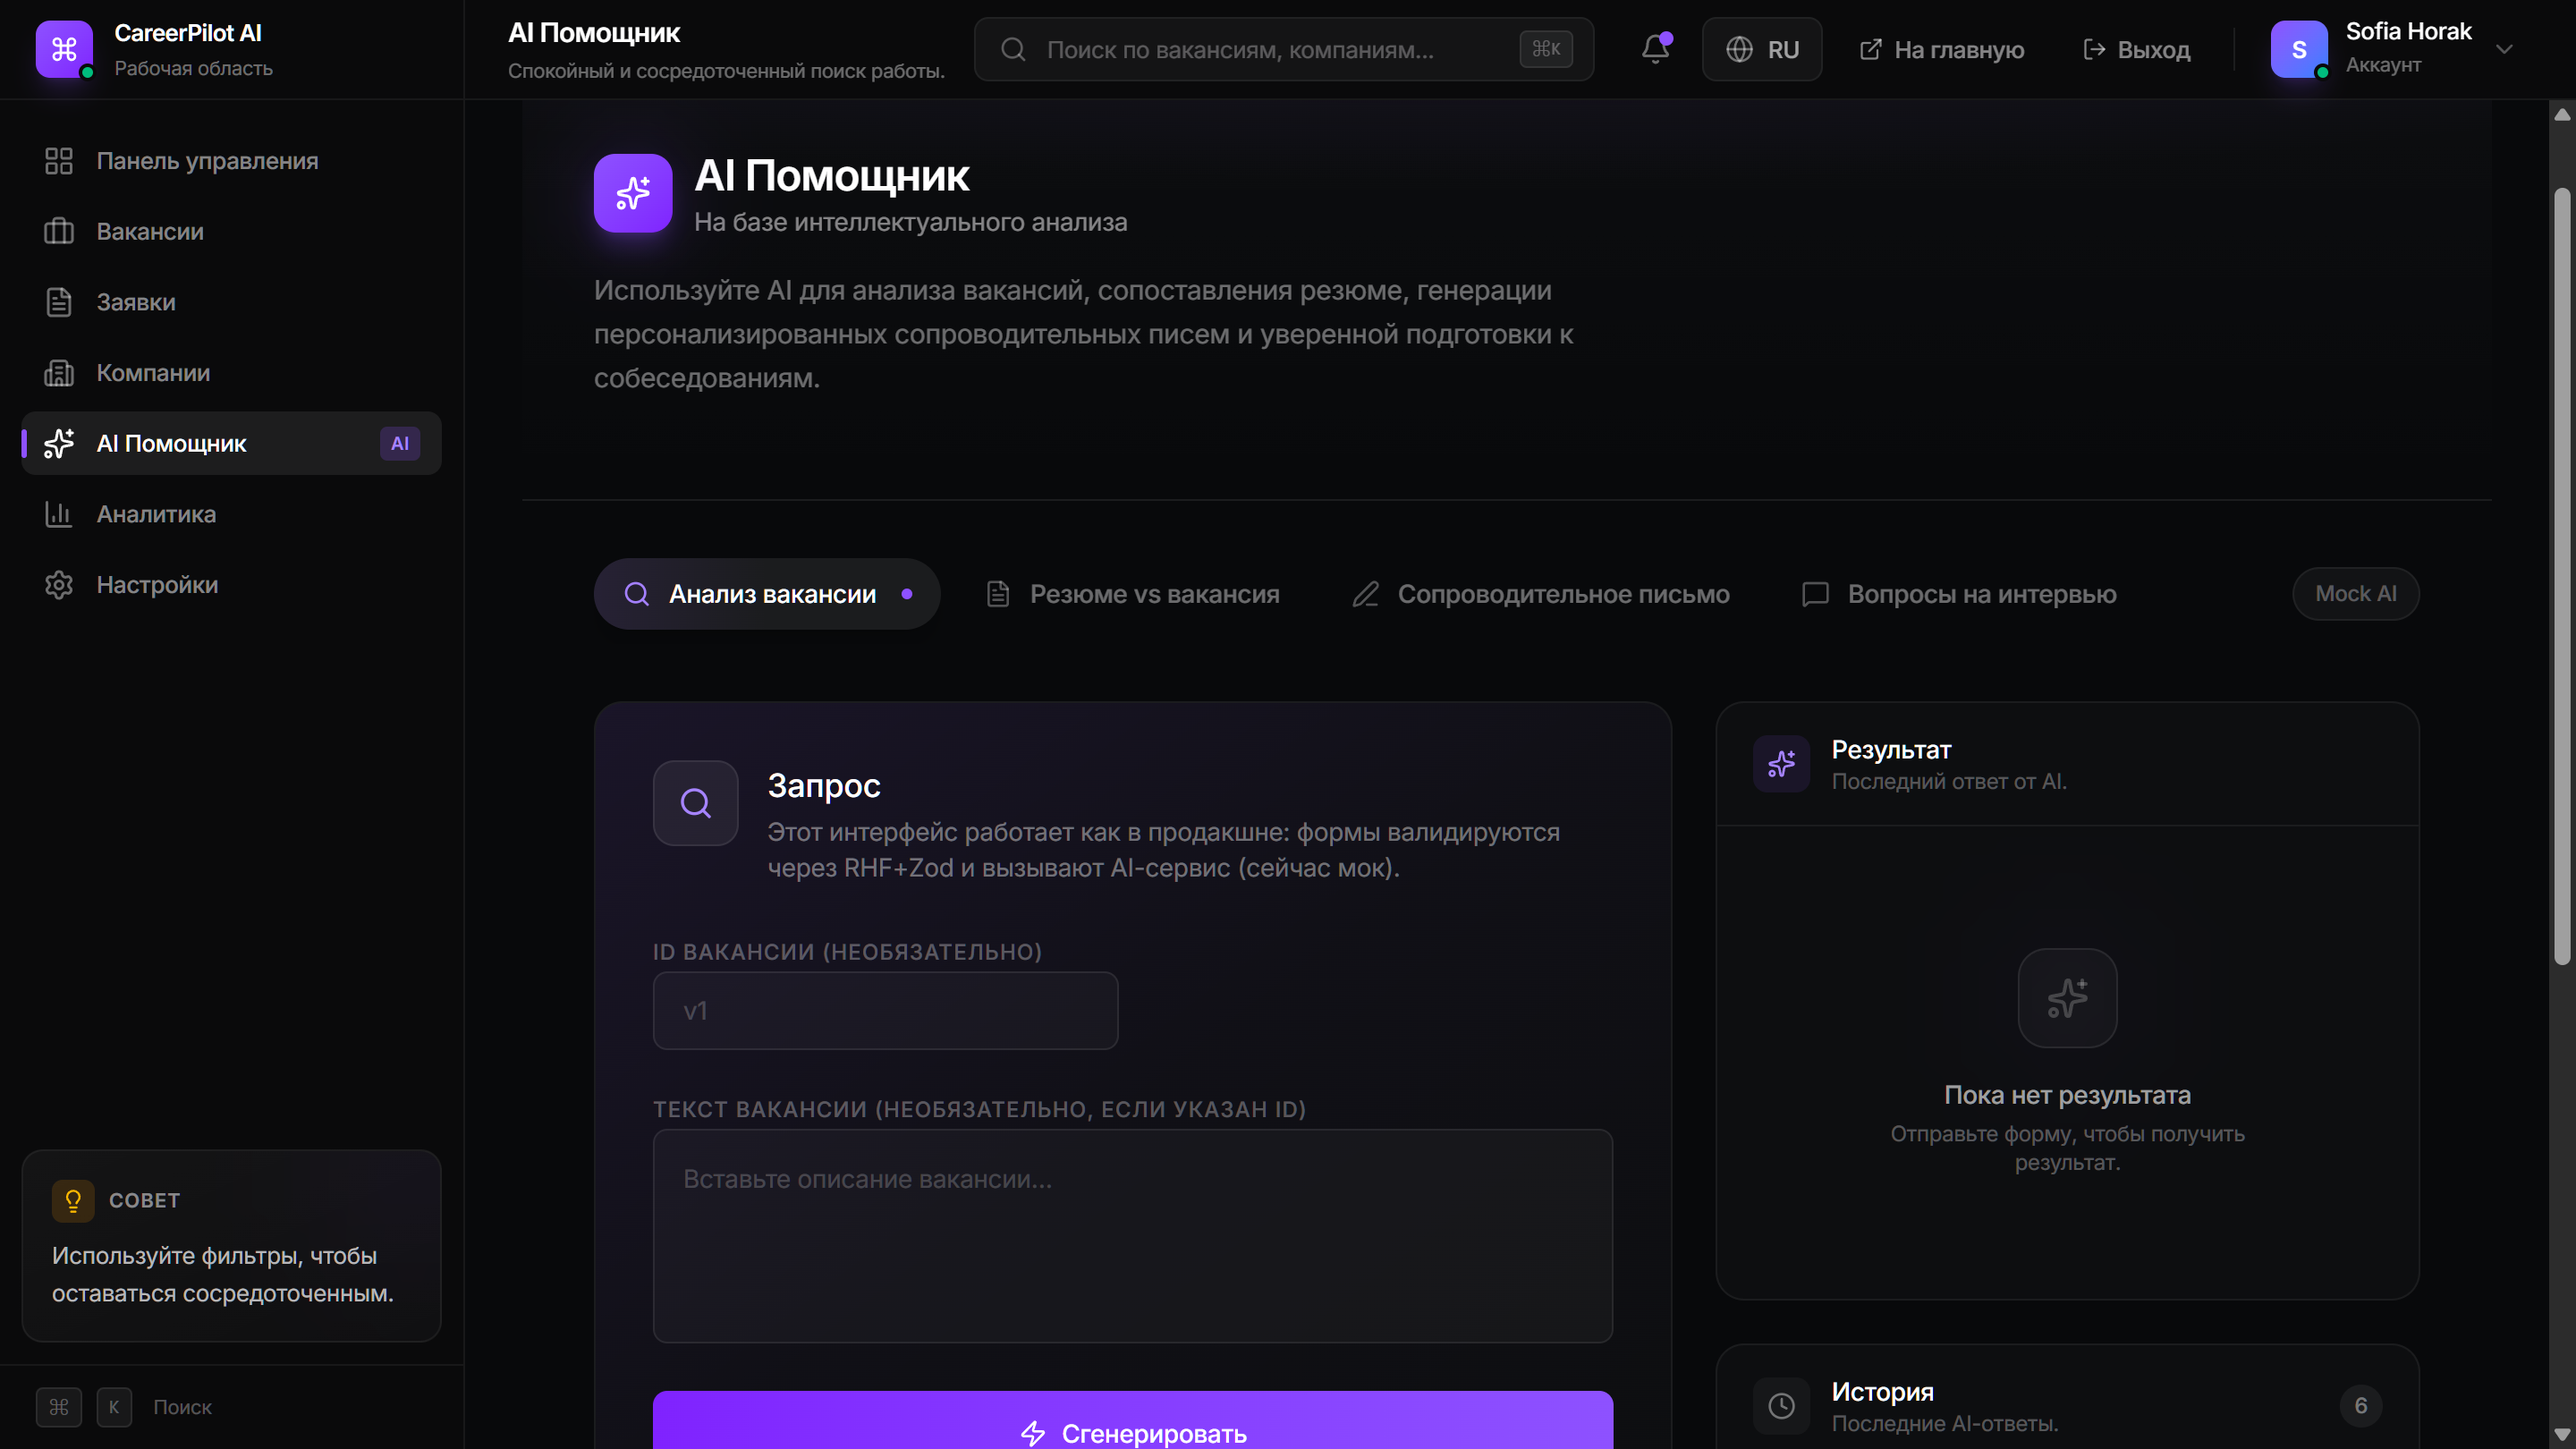
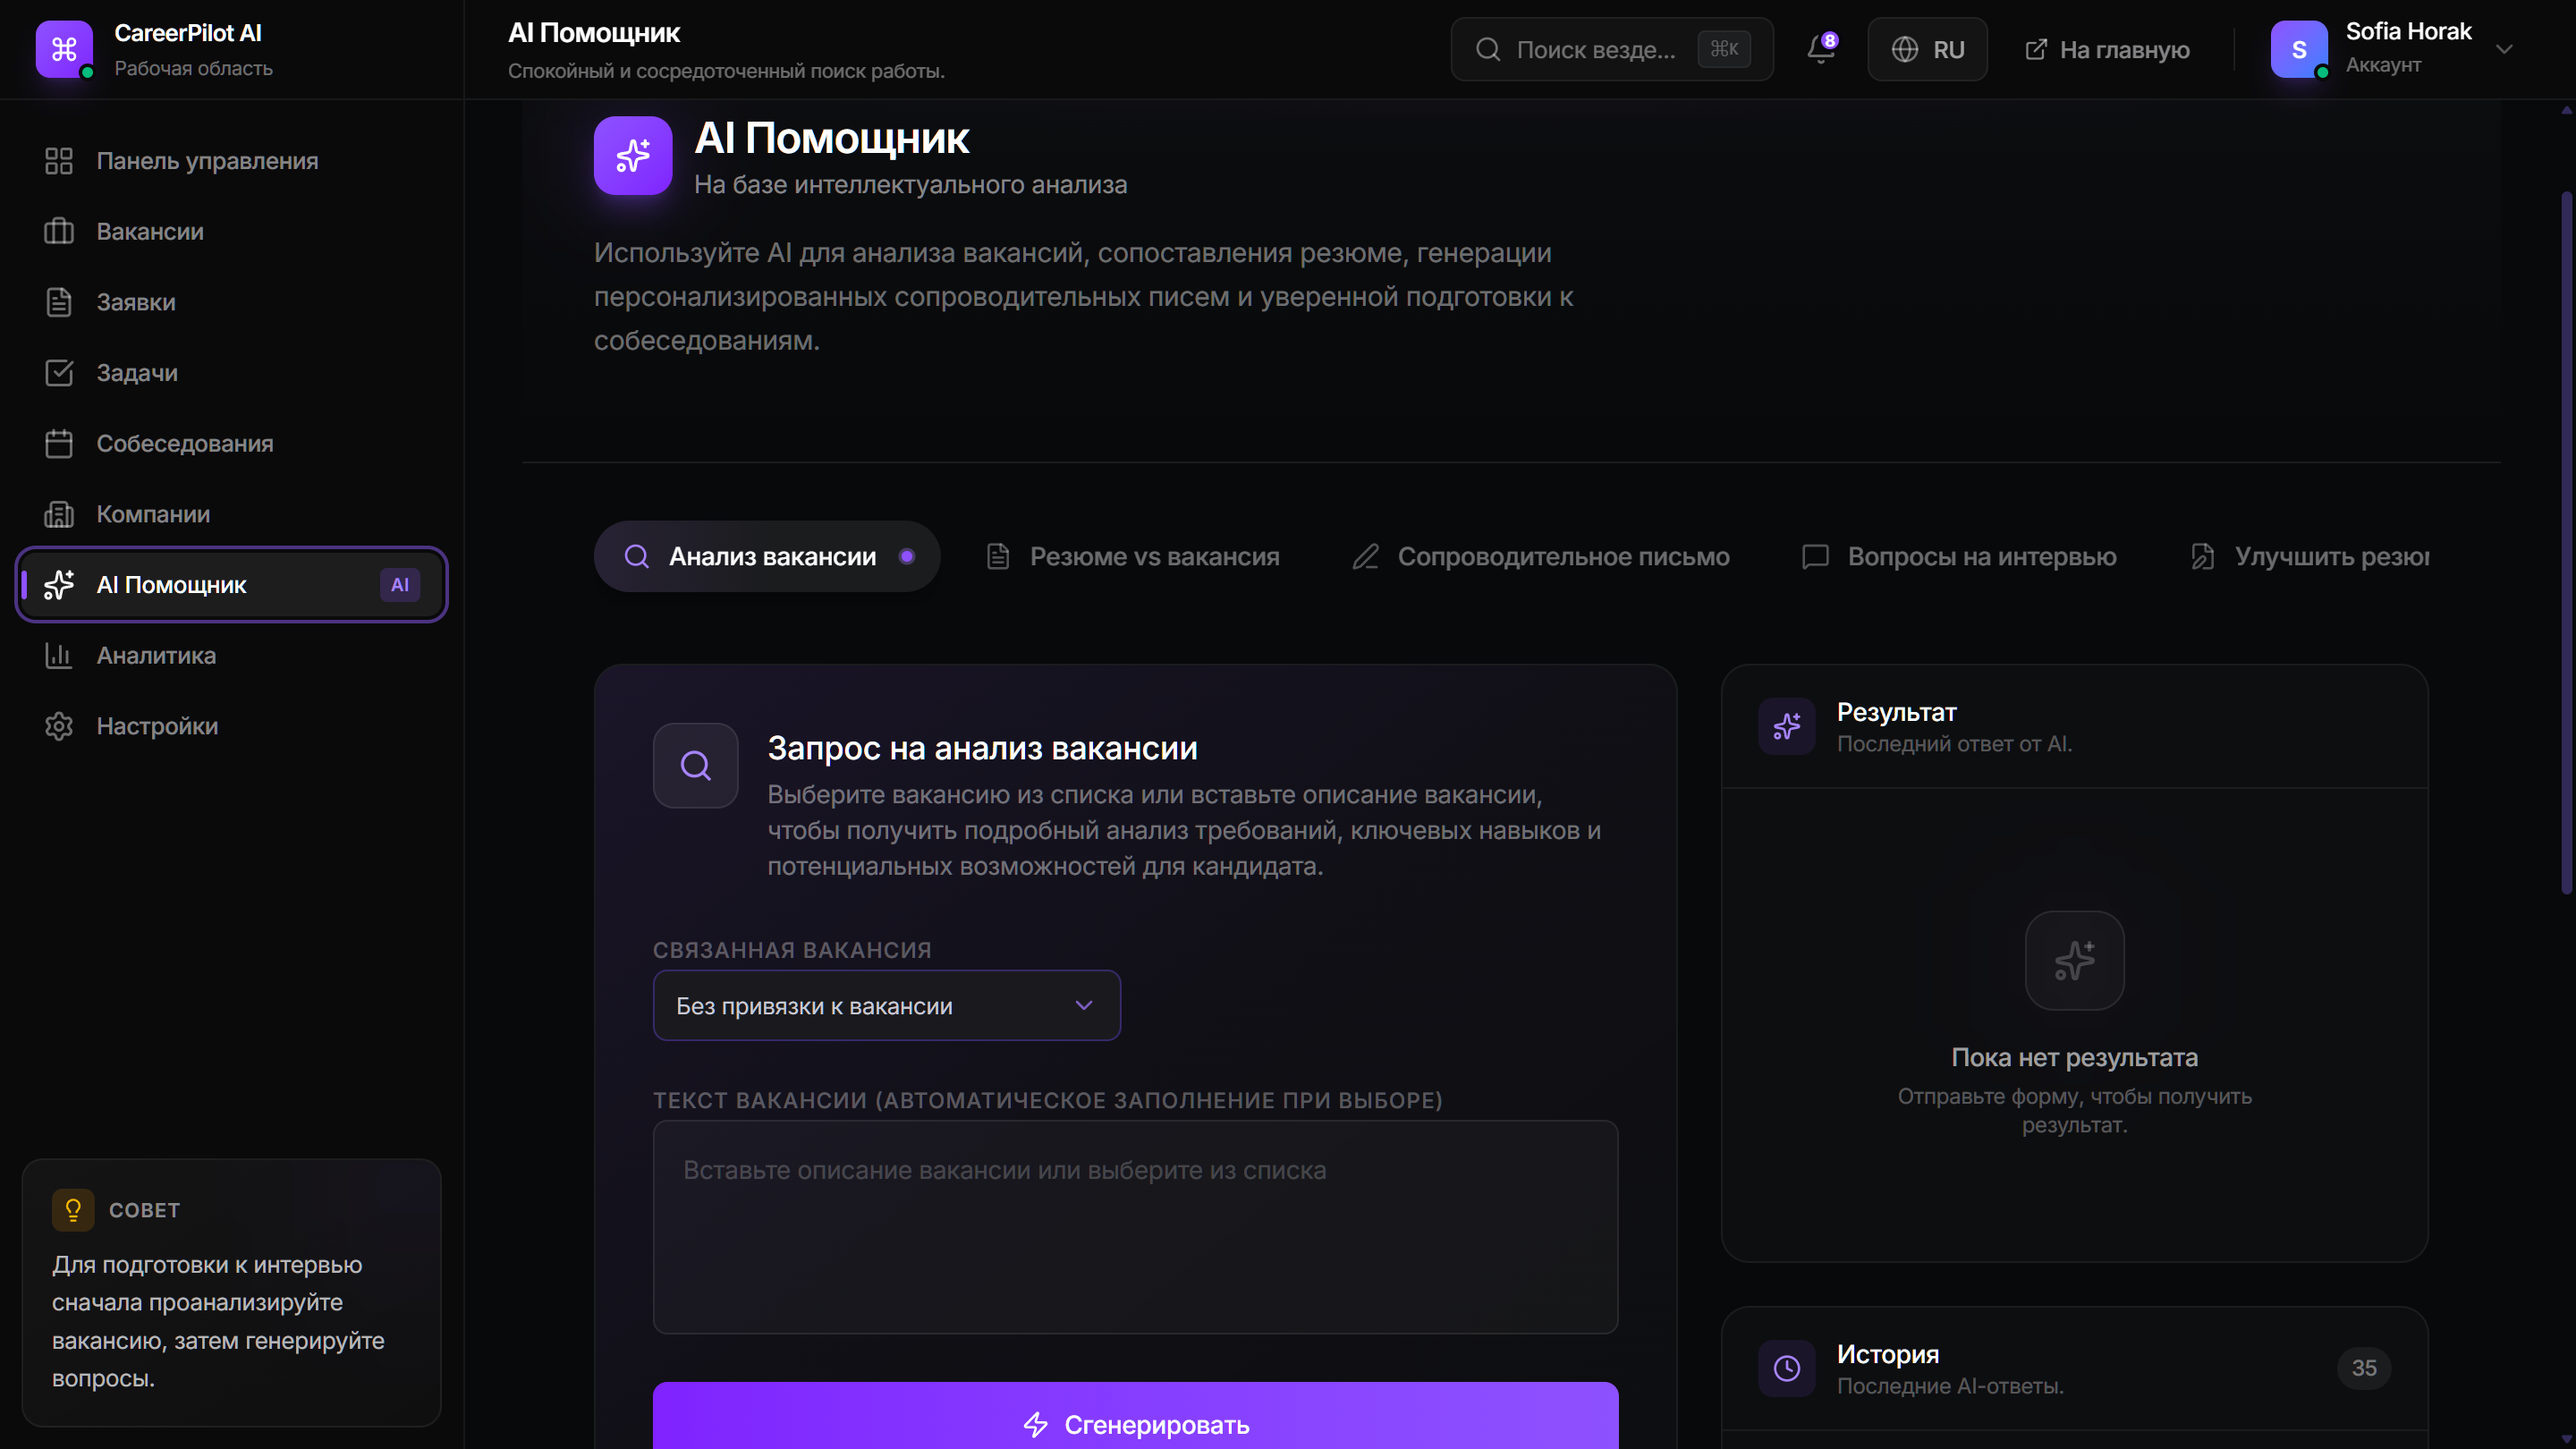
docs: обновлены скриншоты и синхронизированы пути в README.md
Документация:
- Обновлён скриншот AI-ассистента
- Добавлен скриншот детальной страницы вакансии
- Синхронизированы пути к скриншотам в README.md с файлами в docs/assets/

diff --git a/README.md b/README.md
@@ -36,19 +36,43 @@
 
 ---
 
+### Вакансии
+
+![Vacancies](./docs/assets/screenshot-vacancies.png)
+
+---
+
 ### Вакансии — детальная страница
 
 ![Vacancy Detail](./docs/assets/screenshot-vacancy-detail.png)
 
 ---
 
-### Отклики — Kanban-борд
+### Заявки — Kanban-борд
 
 ![Applications Kanban](./docs/assets/screenshot-kanban.png)
 
 ---
 
-### AI-ассистент
+### Задачи
+
+![Tasks](./docs/assets/screenshot-tasks.png)
+
+---
+
+### Собеседования
+
+![Interviews](./docs/assets/screenshot-interviews.png)
+
+---
+
+### Компании
+
+![Companies](./docs/assets/screenshot-companies.png)
+
+---
+
+### AI-помощник
 
 ![AI Assistant](./docs/assets/screenshot-ai.png)
 
@@ -57,6 +81,12 @@
 ### Аналитика
 
 ![Analytics](./docs/assets/screenshot-analytics.png)
+
+---
+
+### Настройки
+
+![Settings](./docs/assets/screenshot-settings.png)
 
 ---
 
